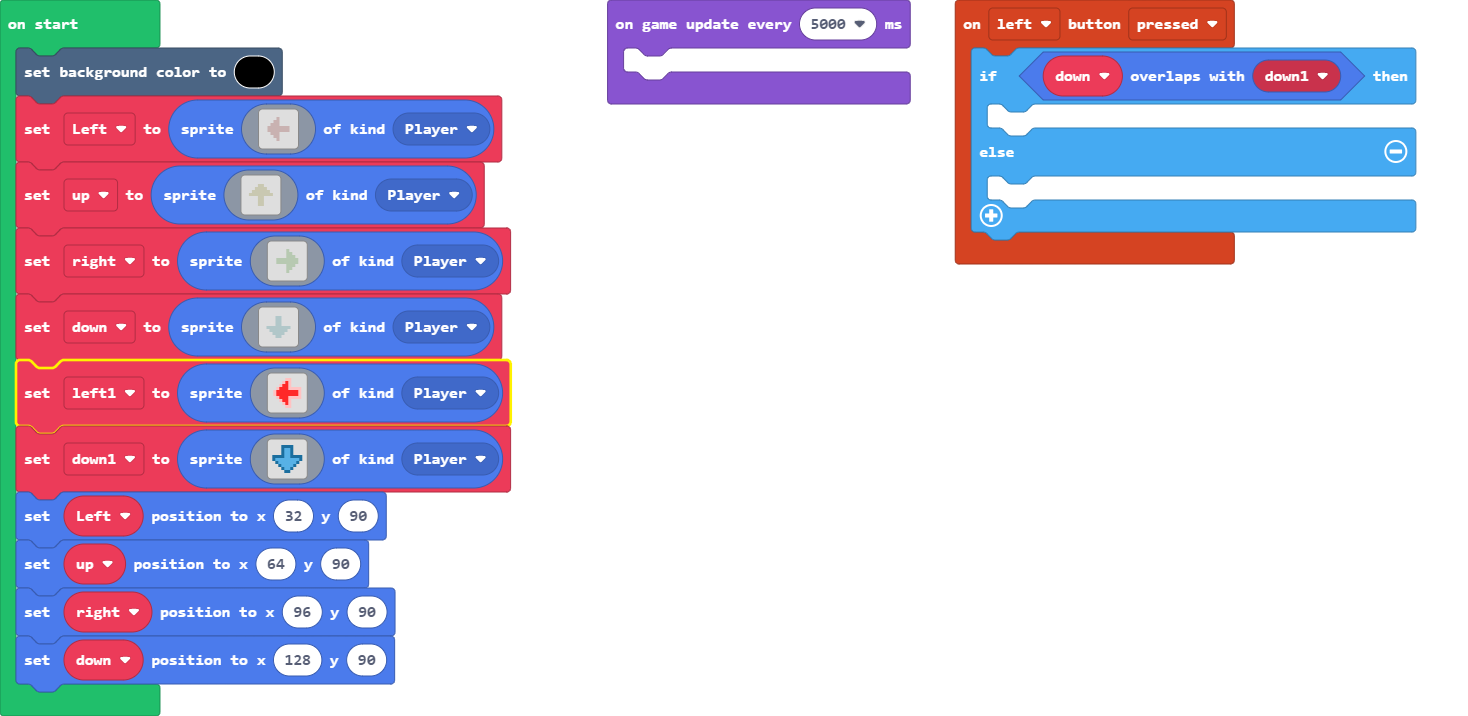
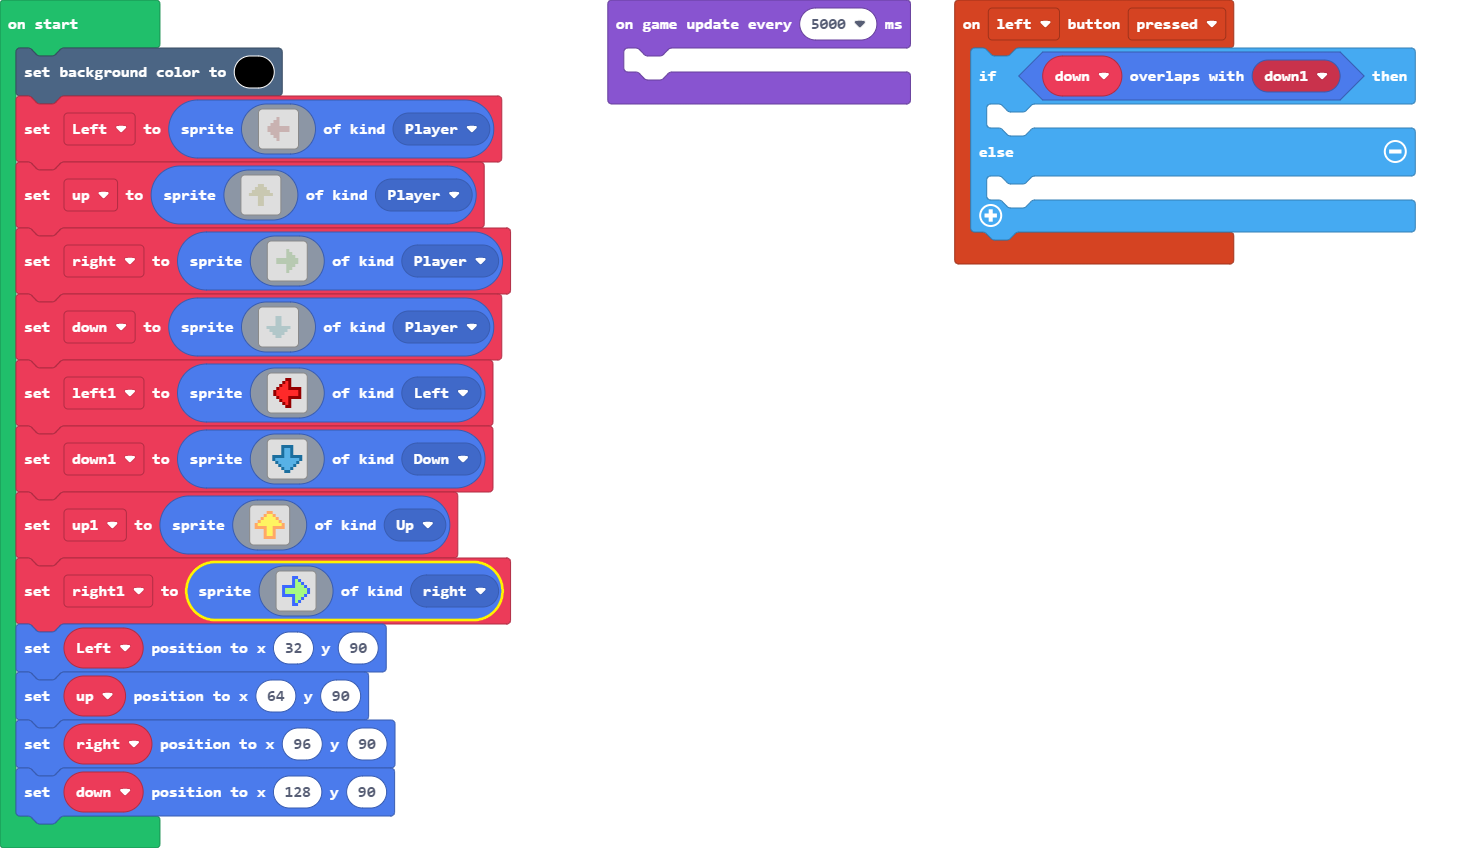
Update pxt.json, main.blocks, main.ts

Changed region(s): [[0.0, 0.0, 0.3681, 0.9832], [0.3988, 0.0, 0.9816, 0.3687]]

diff --git a/main.ts b/main.ts
@@ -1,3 +1,10 @@
+namespace SpriteKind {
+    export const Up = SpriteKind.create()
+    export const Down = SpriteKind.create()
+    export const Left = SpriteKind.create()
+    export const right1 = SpriteKind.create()
+    export const right = SpriteKind.create()
+}
 controller.left.onEvent(ControllerButtonEvent.Pressed, function () {
     if (down.overlapsWith(down1)) {
     	
@@ -177,7 +184,7 @@ let left1 = sprites.create(img`
     ..............333333............
     ..............333333............
     ................................
-    `, SpriteKind.Player)
+    `, SpriteKind.Left)
 down1 = sprites.create(img`
     ................................
     ................................
@@ -211,7 +218,75 @@ down1 = sprites.create(img`
     .............aaaaaa.............
     ................................
     ................................
-    `, SpriteKind.Player)
+    `, SpriteKind.Down)
+let up1 = sprites.create(img`
+    ................................
+    ................................
+    .............444444.............
+    .............444444.............
+    .............444444.............
+    ..........444555555444..........
+    ..........444555555444..........
+    ..........444555555444..........
+    .......444555555555555444.......
+    .......444555555555555444.......
+    .......444555555555555444.......
+    ....444555555555555555555444....
+    ....444555555555555555555444....
+    ....444555555555555555555444....
+    .444555555555555555555555555444.
+    .444555555555555555555555555444.
+    .444555555555555555555555555444.
+    .444444444444555555444444444444.
+    .444444444444555555444444444444.
+    .444444444444555555444444444444.
+    ..........444555555444..........
+    ..........444555555444..........
+    ..........444555555444..........
+    ..........444555555444..........
+    ..........444555555444..........
+    ..........444555555444..........
+    ..........444555555444..........
+    ..........444444444444..........
+    ..........444444444444..........
+    ..........444444444444..........
+    ................................
+    ................................
+    `, SpriteKind.Up)
+let right1 = sprites.create(img`
+    ................................
+    ............888888..............
+    ............888888..............
+    ............888888..............
+    ............888777888...........
+    ............888777888...........
+    ............888777888...........
+    ............888777777888........
+    ............888777777888........
+    ............888777777888........
+    ..8888888888888777777777888.....
+    ..8888888888888777777777888.....
+    ..8888888888888777777777888.....
+    ..8887777777777777777777777888..
+    ..8887777777777777777777777888..
+    ..8887777777777777777777777888..
+    ..8887777777777777777777777888..
+    ..8887777777777777777777777888..
+    ..8887777777777777777777777888..
+    ..8888888888888777777777888.....
+    ..8888888888888777777777888.....
+    ..8888888888888777777777888.....
+    ............888777777888........
+    ............888777777888........
+    ............888777777888........
+    ............888777888...........
+    ............888777888...........
+    ............888777888...........
+    ............888888..............
+    ............888888..............
+    ............888888..............
+    ................................
+    `, SpriteKind.right)
 Left.setPosition(32, 90)
 up.setPosition(64, 90)
 right.setPosition(96, 90)
